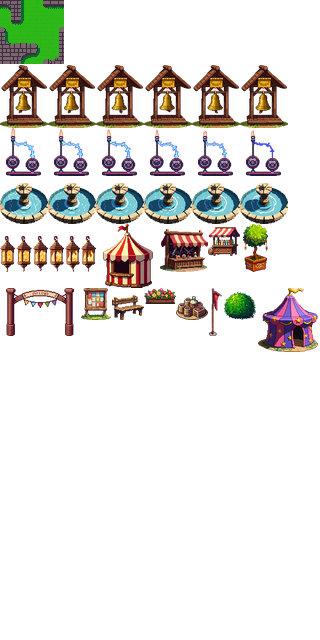
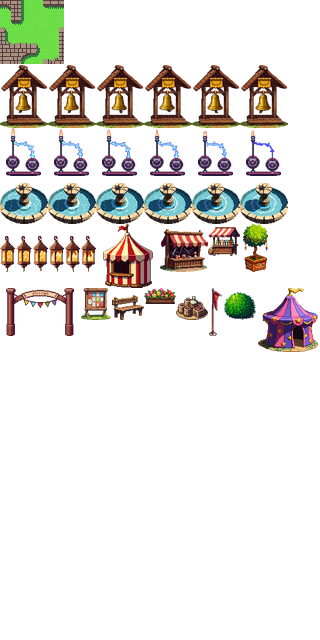
fix(space): soften the Millennial Fair plaza stone colour
The raw grey Wang floor read too dark and strong. Grade it in author_fair.py
(lighten, desaturate, warm slightly) toward a gentle weathered-stone tone.
Tunable via FLOOR_BRIGHTNESS / FLOOR_SATURATION / FLOOR_WARM.

Changed region(s): [[0.0, 0.0, 0.2188, 0.125]]

diff --git a/virtual.space/tools/author_fair.py b/virtual.space/tools/author_fair.py
@@ -24,7 +24,24 @@ See ``virtual.space/SCENES.md`` and ``virtual.space/ANIMATIONS.md``.
 import json
 import os
 
-from PIL import Image, ImageDraw
+from PIL import Image, ImageDraw, ImageEnhance
+
+# Soften the generated stone: the raw Wang floor reads too dark/strong, so we
+# lighten it, pull a little saturation out and warm it slightly toward a gentle
+# weathered-stone tone. Tunable (brightness, saturation, warm RGB multipliers).
+FLOOR_BRIGHTNESS = 1.32
+FLOOR_SATURATION = 0.62
+FLOOR_WARM = (1.11, 1.05, 0.88)
+
+
+def _grade_floor(img):
+    img = ImageEnhance.Brightness(img).enhance(FLOOR_BRIGHTNESS)
+    img = ImageEnhance.Color(img).enhance(FLOOR_SATURATION)
+    r, g, b, a = img.split()
+    r = r.point(lambda v: min(255, round(v * FLOOR_WARM[0])))
+    g = g.point(lambda v: min(255, round(v * FLOOR_WARM[1])))
+    b = b.point(lambda v: min(255, round(v * FLOOR_WARM[2])))
+    return Image.merge("RGBA", (r, g, b, a))
 
 TOOLS = os.path.dirname(os.path.abspath(__file__))
 REPO = os.path.abspath(os.path.join(TOOLS, "..", ".."))
@@ -170,7 +187,7 @@ def _pack_prop(sheet, ims, col, row, w, h):
 
 
 def _compose_sheet():
-    wang = Image.open(os.path.join(SRC, "floor_wang.png")).convert("RGBA")
+    wang = _grade_floor(Image.open(os.path.join(SRC, "floor_wang.png")).convert("RGBA"))
     lut = json.load(open(os.path.join(SRC, "wang_lut.json")))
     sheet = Image.new("RGBA", (SHEET_COLS * T, 40 * T), (0, 0, 0, 0))
     vocab = {}
